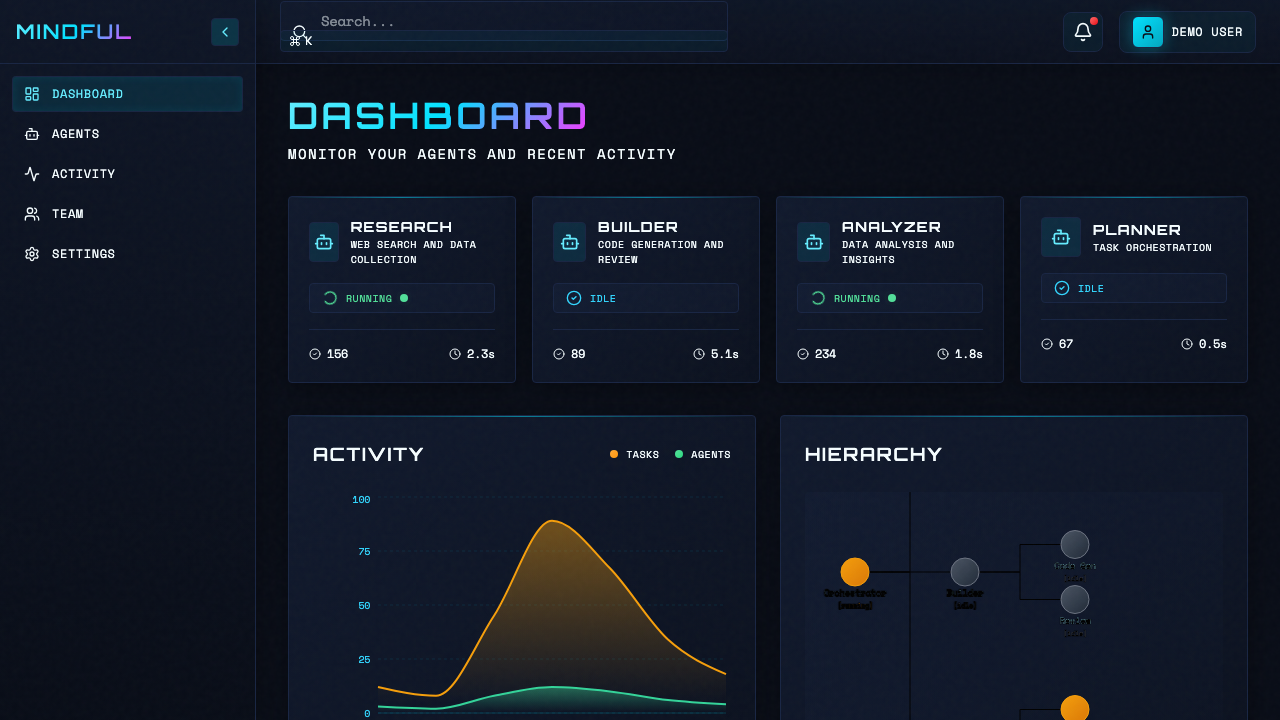
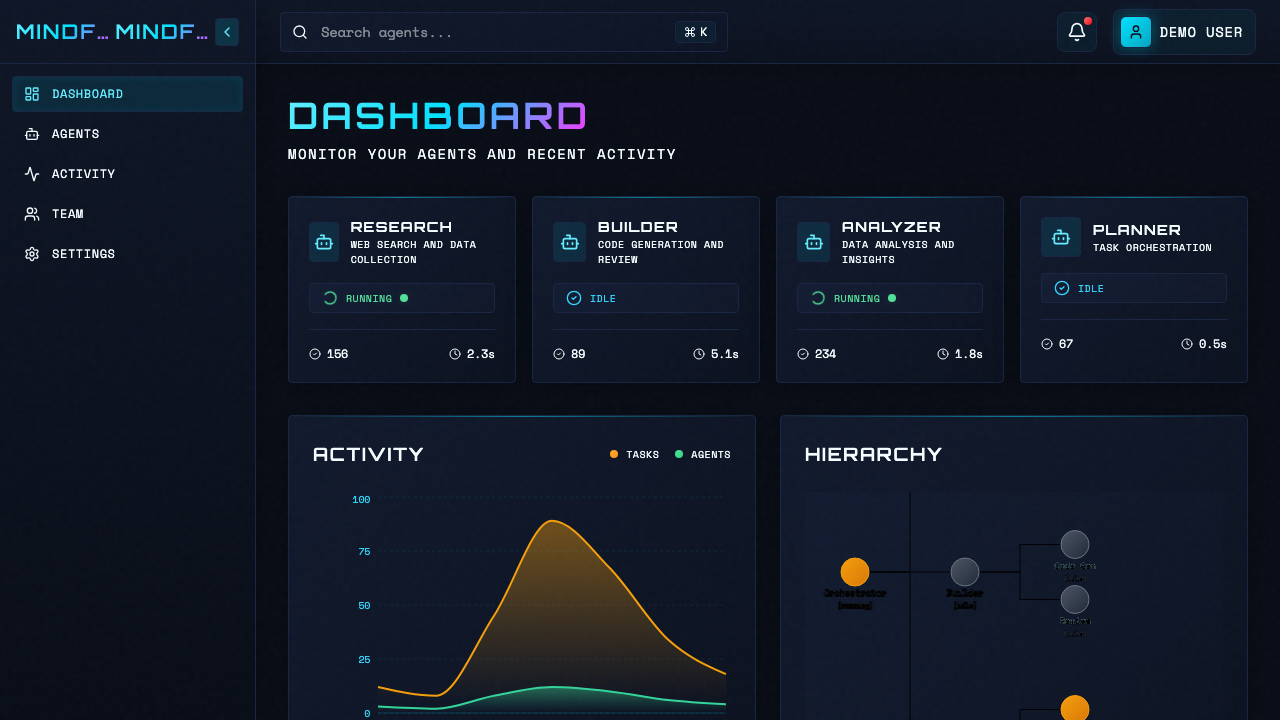
feat: add cyberpunk theme and responsive dashboard

diff --git a/client/src/components/layout/Header.tsx b/client/src/components/layout/Header.tsx
@@ -17,7 +17,7 @@ export function Header({ className }: HeaderProps) {
         boxShadow: "0 4px 20px hsl(0 0% 0% / 0.2)",
       }}
     >
-      <div className="flex flex-1 items-center gap-2 md:gap-4">
+      <div className="flex flex-1 items-center gap-4">
         <div
           className={`relative flex-1 max-w-xs md:max-w-md transition-all duration-300 ${
             searchFocused ? "md:max-w-lg" : ""
@@ -32,33 +32,33 @@ export function Header({ className }: HeaderProps) {
           />
           <input
             type="text"
-            placeholder="Search..."
+            placeholder="Search agents..."
             onFocus={() => setSearchFocused(true)}
             onBlur={() => setSearchFocused(false)}
-            className="h-9 md:h-10 w-full rounded border border-[hsl(187_100%_50%/0.15)] bg-[hsl(187_100%_50%/0.05)] pl-9 md:pl-10 pr-14 md:pr-16 text-xs md:text-sm font-mono text-foreground outline-none transition-all duration-300 placeholder:text-muted-foreground focus:border-[hsl(187_100%_50%/0.5)] focus:bg-[hsl(187_100%_50%/0.1)] focus:shadow-[0_0_15px_hsl(187_100%_50%/0.2)]"
+            className="h-10 w-full rounded border border-[hsl(187_100%_50%/0.15)] bg-[hsl(187_100%_50%/0.05)] pl-10 pr-16 text-sm font-mono text-foreground outline-none transition-all duration-300 placeholder:text-muted-foreground focus:border-[hsl(187_100%_50%/0.5)] focus:bg-[hsl(187_100%_50%/0.1)] focus:shadow-[0_0_15px_hsl(187_100%_50%/0.2)]"
             style={{
               background:
                 "linear-gradient(135deg, hsl(222 47% 12% / 0.8) 0%, hsl(222 47% 10% / 0.6) 100%)",
             }}
           />
-          <div className=" top-1/absolute right-32 hidden -translate-y-1/2 items-center gap-1 rounded border border-[hsl(187_100%_50%/0.2)] bg-[hsl(187_100%_50%/0.05)] px-2 py-0.5 text-xs font-mono text-muted-foreground md:flex">
+          <div className="absolute right-3 top-1/2 hidden -translate-y-1/2 items-center gap-1 rounded border border-[hsl(187_100%_50%/0.2)] bg-[hsl(187_100%_50%/0.05)] px-2 py-0.5 text-xs font-mono text-muted-foreground md:flex">
             <Command className="h-3 w-3" />
             <span>K</span>
           </div>
         </div>
       </div>
 
-      <div className="flex items-center gap-2 md:gap-4">
-        <button className="group relative flex h-9 w-9 md:h-10 md:w-10 items-center justify-center rounded-lg border border-[hsl(187_100%_50%/0.15)] bg-[hsl(187_100%_50%/0.05)] transition-all duration-300 hover:border-[hsl(187_100%_50%/0.4)] hover:bg-[hsl(187_100%_50%/0.15)]">
-          <Bell className="h-4 w-4 md:h-5 md:w-5 text-muted-foreground transition-colors duration-300 group-hover:text-[hsl(187_100%_70%)]" />
+      <div className="flex items-center gap-4">
+        <button className="group relative flex h-10 w-10 items-center justify-center rounded-lg border border-[hsl(187_100%_50%/0.15)] bg-[hsl(187_100%_50%/0.05)] transition-all duration-300 hover:border-[hsl(187_100%_50%/0.4)] hover:bg-[hsl(187_100%_50%/0.15)]">
+          <Bell className="h-5 w-5 text-muted-foreground transition-colors duration-300 group-hover:text-[hsl(187_100%_70%)]" />
           <span className="absolute right-1 top-1 h-2 w-2 rounded-full bg-gradient-to-br from-red-400 to-red-600 shadow-lg shadow-red-500/50" />
         </button>
 
-        <div className="flex items-center gap-2 rounded-lg border border-[hsl(187_100%_50%/0.15)] bg-[hsl(187_100%_50%/0.05)] p-1 md:px-3 transition-all duration-300 hover:border-[hsl(187_100%_50%/0.4)] hover:bg-[hsl(187_100%_50%/0.1)]">
-          <div className="flex h-7 w-7 md:h-8 md:w-8 items-center justify-center rounded-md border border-[hsl(187_100%_50%/0.3)] bg-gradient-to-br from-[hsl(187_100%_50%)] to-[hsl(187_100%_50%/70%)] shadow-[0_0_15px_hsl(187_100%_50%/0.3)]">
-            <User className="h-3.5 w-3.5 md:h-4 md:w-4 text-[hsl(222_47%_6%)]" />
+        <div className="flex items-center gap-2 rounded-lg border border-[hsl(187_100%_50%/0.15)] bg-[hsl(187_100%_50%/0.05)] p-1.5 pr-3 transition-all duration-300 hover:border-[hsl(187_100%_50%/0.4)] hover:bg-[hsl(187_100%_50%/0.1)]">
+          <div className="flex h-8 w-8 items-center justify-center rounded-md border border-[hsl(187_100%_50%/0.3)] bg-gradient-to-br from-[hsl(187_100%_50%)] to-[hsl(187_100%_50%/70%)] shadow-[0_0_15px_hsl(187_100%_50%/0.3)]">
+            <User className="h-4 w-4 text-[hsl(222_47%_6%)]" />
           </div>
-          <span className="hidden text-xs md:block text-sm font-medium uppercase tracking-wider text-foreground">
+          <span className="text-sm font-medium uppercase tracking-wider text-foreground">
             Demo User
           </span>
         </div>

diff --git a/client/src/components/layout/DashboardLayout.tsx b/client/src/components/layout/DashboardLayout.tsx
@@ -1,7 +1,7 @@
-import { useState, useEffect } from 'react';
-import { Menu } from 'lucide-react';
-import { Sidebar } from './Sidebar';
-import { Header } from './Header';
+import { useState, useEffect } from "react";
+import { Menu } from "lucide-react";
+import { Sidebar } from "./Sidebar";
+import { Header } from "./Header";
 
 interface DashboardLayoutProps {
   children: React.ReactNode;
@@ -9,6 +9,7 @@ interface DashboardLayoutProps {
 
 export function DashboardLayout({ children }: DashboardLayoutProps) {
   const [sidebarCollapsed, setSidebarCollapsed] = useState(false);
+  const [sidebarHovered, setSidebarHovered] = useState(false);
   const [mobileMenuOpen, setMobileMenuOpen] = useState(false);
   const [isMobile, setIsMobile] = useState(false);
 
@@ -22,15 +23,24 @@ export function DashboardLayout({ children }: DashboardLayoutProps) {
     };
 
     checkMobile();
-    window.addEventListener('resize', checkMobile);
-    return () => window.removeEventListener('resize', checkMobile);
+    window.addEventListener("resize", checkMobile);
+    return () => window.removeEventListener("resize", checkMobile);
   }, []);
+
+  // Calculate actual sidebar width for main content margin
+  const getSidebarWidth = () => {
+    if (isMobile) return 0;
+    if (sidebarCollapsed) {
+      return sidebarHovered ? 256 : 64; // w-64 or w-16
+    }
+    return 256; // w-64
+  };
 
   return (
     <div
       className="min-h-screen"
       style={{
-        background: 'hsl(222 47% 6%)',
+        background: "hsl(222 47% 6%)",
       }}
     >
       {/* Mobile menu button */}
@@ -56,9 +66,9 @@ export function DashboardLayout({ children }: DashboardLayoutProps) {
         className={`fixed left-0 top-0 z-50 h-screen transition-transform duration-300 ${
           isMobile
             ? mobileMenuOpen
-              ? 'translate-x-0'
-              : '-translate-x-full'
-            : ''
+              ? "translate-x-0"
+              : "-translate-x-full"
+            : ""
         }`}
       >
         <Sidebar
@@ -66,14 +76,16 @@ export function DashboardLayout({ children }: DashboardLayoutProps) {
           onToggle={() => setSidebarCollapsed(!sidebarCollapsed)}
           isMobile={isMobile}
           onCloseMobile={() => setMobileMenuOpen(false)}
+          onHoverChange={setSidebarHovered}
         />
       </div>
 
       {/* Main content - always has left margin */}
       <div
-        className={`min-h-screen transition-all duration-300 ${
-          isMobile ? 'ml-0' : sidebarCollapsed ? 'ml-16' : 'ml-64'
-        }`}
+        className="min-h-screen transition-all duration-300"
+        style={{
+          marginLeft: `${getSidebarWidth()}px`,
+        }}
       >
         {/* Mobile header */}
         {isMobile && (
@@ -81,8 +93,8 @@ export function DashboardLayout({ children }: DashboardLayoutProps) {
             className="sticky top-0 z-30 flex h-14 items-center border-b border-[hsl(187_100%_50%/0.1)] px-4 backdrop-blur-xl"
             style={{
               background:
-                'linear-gradient(180deg, hsl(222 47% 10% / 0.95) 0%, hsl(222 47% 8% / 0.9) 100%)',
-              boxShadow: '0 4px 20px hsl(0 0% 0% / 0.2)',
+                "linear-gradient(180deg, hsl(222 47% 10% / 0.95) 0%, hsl(222 47% 8% / 0.9) 100%)",
+              boxShadow: "0 4px 20px hsl(0 0% 0% / 0.2)",
             }}
           >
             <button
@@ -104,7 +116,7 @@ export function DashboardLayout({ children }: DashboardLayoutProps) {
         <main
           className="flex-1 p-4 md:p-6 lg:p-8"
           style={{
-            background: 'hsl(222 47% 6%)',
+            background: "hsl(222 47% 6%)",
           }}
         >
           {children}

diff --git a/client/src/components/layout/Sidebar.tsx b/client/src/components/layout/Sidebar.tsx
@@ -1,3 +1,4 @@
+import { useState } from "react";
 import {
   LayoutDashboard,
   Bot,
@@ -14,6 +15,7 @@ interface SidebarProps {
   onToggle: () => void;
   isMobile?: boolean;
   onCloseMobile?: () => void;
+  onHoverChange?: (hovered: boolean) => void;
 }
 
 const navItems = [
@@ -29,14 +31,31 @@ export function Sidebar({
   onToggle,
   isMobile,
   onCloseMobile,
+  onHoverChange,
 }: SidebarProps) {
+  const [isHovered, setIsHovered] = useState(false);
   const isCollapsed = isMobile ? false : collapsed;
+  const isExpanded = isCollapsed ? isHovered : false;
+
+  const handleMouseEnter = () => {
+    if (isCollapsed) {
+      setIsHovered(true);
+      onHoverChange?.(true);
+    }
+  };
+
+  const handleMouseLeave = () => {
+    setIsHovered(false);
+    onHoverChange?.(false);
+  };
 
   return (
     <aside
       className={`h-screen border-r border-[hsl(187_100%_50%/0.1)] bg-[hsl(222_47%_8%)] transition-all duration-300 ${
-        isCollapsed ? "w-16" : "w-64"
+        isCollapsed && !isExpanded ? "w-16" : "w-64"
       } ${isMobile ? "w-64" : ""}`}
+      onMouseEnter={handleMouseEnter}
+      onMouseLeave={handleMouseLeave}
       style={{
         background:
           "linear-gradient(180deg, hsl(222 47% 10%) 0%, hsl(222 47% 6%) 100%)",
@@ -47,21 +66,27 @@ export function Sidebar({
         {isMobile && onCloseMobile && (
           <button
             onClick={onCloseMobile}
-            className="flex h-8 w-8 items-center justify-center rounded border border-[hsl(187_100%_50%/0.2)] bg-[hsl(187_100%_50%/0.05)] lg:hidden"
+            className="flex h-8 w-8 items-center justify-center rounded border border-[hsl(187_100%_50%/0.2)] bg-[hsl(187_100%_50%/0.05)]"
           >
             <X className="h-4 w-4 text-[hsl(187_100%_70%)]" />
           </button>
         )}
 
-        {!isCollapsed && (
+        {!isCollapsed && !isExpanded && (
           <span className="font-display text-lg md:text-xl font-semibold tracking-widest text-gradient-cyber truncate">
             Mindful
           </span>
         )}
 
-        {isCollapsed && (
+        {isCollapsed && !isExpanded && (
           <span className="mx-auto font-display text-xl font-semibold tracking-widest text-gradient-cyber">
             M
+          </span>
+        )}
+
+        {(isExpanded || !isCollapsed) && (
+          <span className="font-display text-lg md:text-xl font-semibold tracking-widest text-gradient-cyber truncate">
+            Mindful
           </span>
         )}
 
@@ -105,15 +130,15 @@ export function Sidebar({
                   : "group-hover:text-[hsl(187_100%_70%)]"
               }`}
             />
-            {!isCollapsed && (
+            {(!isCollapsed || isExpanded) && (
               <span className="relative z-10 truncate">{item.label}</span>
             )}
           </a>
         ))}
       </nav>
 
-      {/* Desktop toggle button */}
-      {!isMobile && isCollapsed && (
+      {/* Desktop toggle button - bottom right when collapsed */}
+      {!isMobile && isCollapsed && !isExpanded && (
         <button
           onClick={onToggle}
           className="absolute bottom-4 right-4 flex h-8 w-8 items-center justify-center rounded border border-[hsl(187_100%_50%/0.2)] bg-[hsl(187_100%_50%/0.05)] text-muted-foreground transition-all duration-300 hover:border-[hsl(187_100%_50%/0.5)] hover:bg-[hsl(187_100%_50%/0.15)] hover:text-[hsl(187_100%_70%)]"

diff --git a/client/screenshots/README.md b/client/screenshots/README.md
@@ -1,0 +1,42 @@
+# Dashboard Screenshots
+
+This folder contains visual regression test screenshots for the Mindful dashboard.
+
+## Screenshots
+
+| File | Description | Viewport |
+|------|-------------|----------|
+| `desktop.png` | Full desktop view with expanded sidebar | 1920x1080 |
+| `mobile.png` | Mobile view with hamburger menu | 375x667 |
+| `sidebar-collapsed.png` | Desktop with collapsed sidebar | 1920x1080 |
+| `sidebar-expanded.png` | Desktop with expanded sidebar (hover state) | 1920x1080 |
+
+## Taking Screenshots
+
+Use agent-browser for visual testing:
+
+```bash
+# Desktop view
+npx agent-browser open http://localhost:5173 --viewport-width 1920 && \
+  npx agent-browser screenshot client/screenshots/desktop.png
+
+# Mobile view
+npx agent-browser open http://localhost:5173 --viewport-width 375 && \
+  npx agent-browser screenshot client/screenshots/mobile.png
+
+# Sidebar states
+npx agent-browser open http://localhost:5173 && \
+  npx agent-browser click @collapse-button && \
+  npx agent-browser screenshot client/screenshots/sidebar-collapsed.png
+```
+
+## Testing Checklist
+
+- [ ] Desktop layout (1920px+)
+- [ ] Tablet layout (768px-1024px)
+- [ ] Mobile layout (<768px)
+- [ ] Sidebar collapse/expand
+- [ ] Hover states
+- [ ] All components visible
+- [ ] Responsive grids
+- [ ] Touch interactions (mobile)

diff --git a/plan/CHANGELOG.md b/plan/CHANGELOG.md
@@ -52,6 +52,12 @@ The format is based on [Semantic Versioning](https://semver.org/spec/v2.0.0.html
 - Responsive grid layouts
 - Adaptive padding and sizing
 
+### UX Improvements
+- Sidebar expands on hover when collapsed (pushes main content)
+- Improved search bar with consistent styling
+- Header buttons with proper spacing
+- Fixed layout issues at widths > 1440px
+
 ## [v0.1.2] - Future
 
 ### Planned (Auth)
